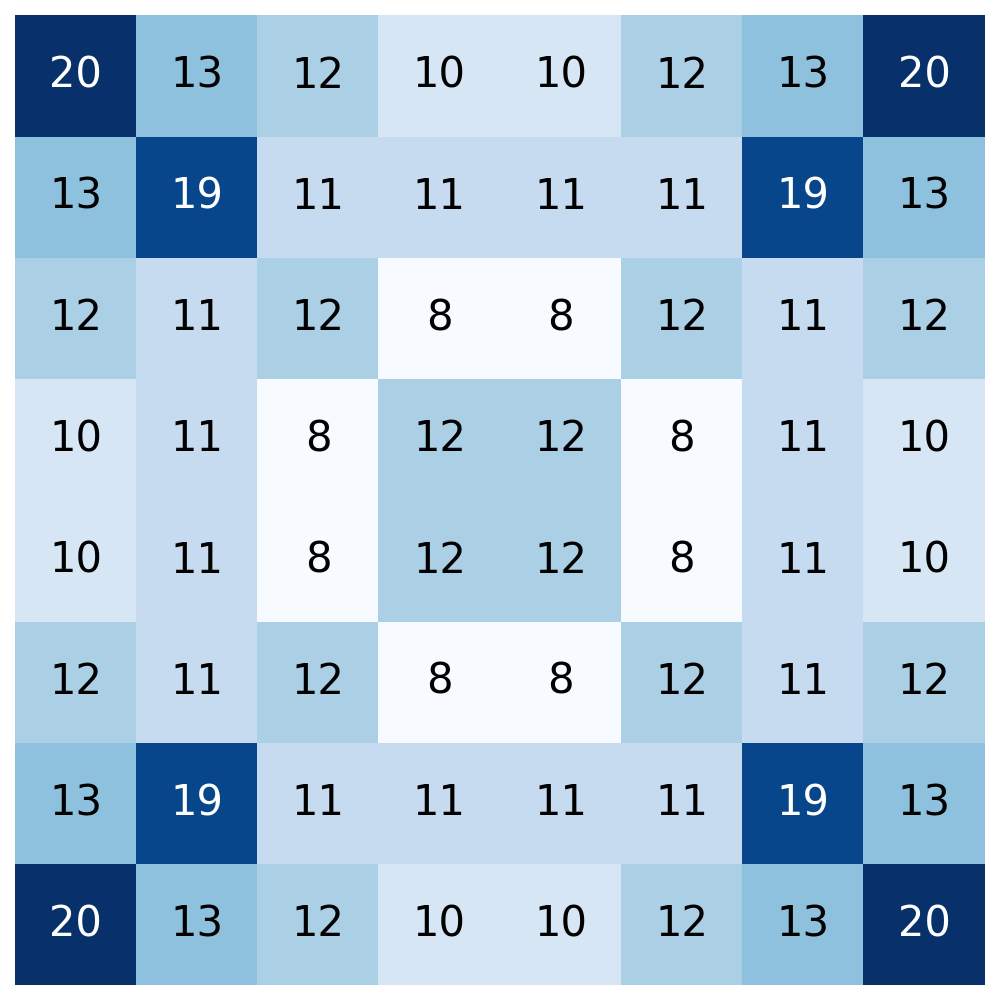
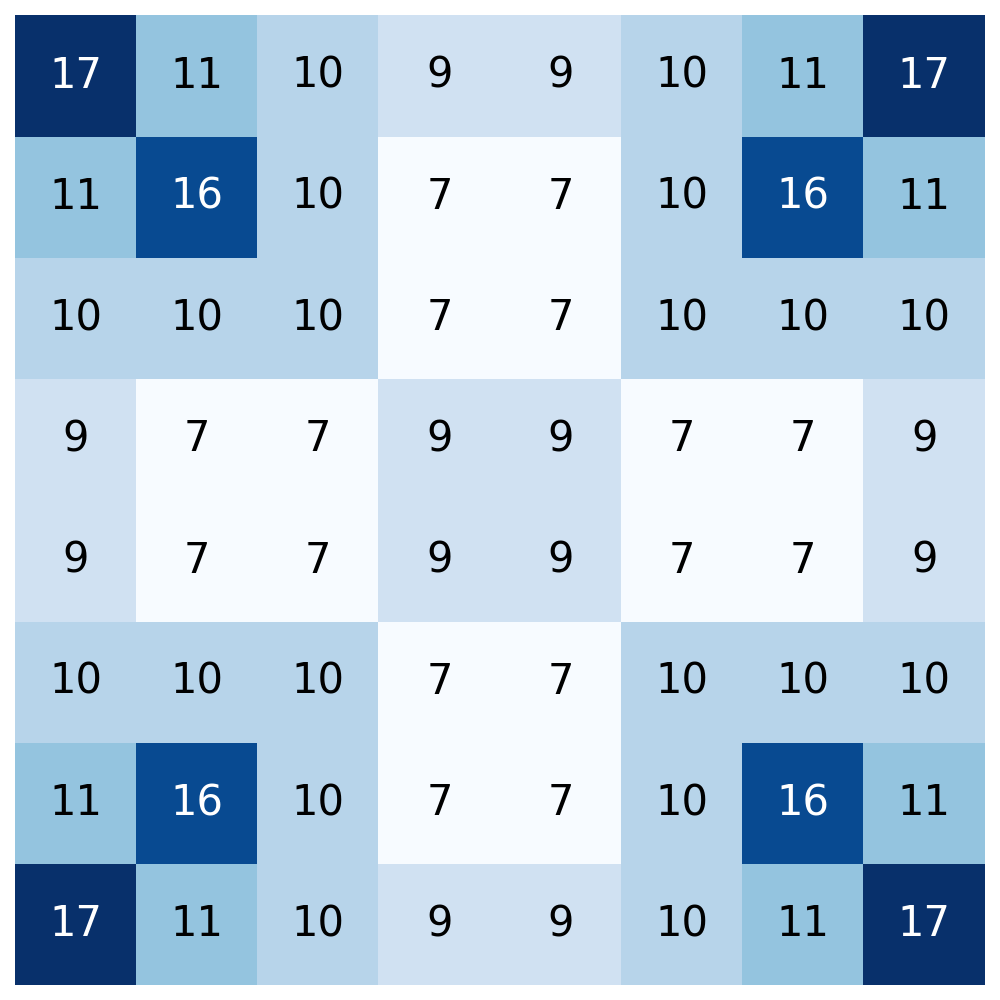
not very good eval #456

diff --git a/src/tools/evaluation/evaluation_definition_20250513_1_7_7.hpp b/src/tools/evaluation/evaluation_definition_20250513_1_7_7.hpp
@@ -1,0 +1,283 @@
+/*
+    Egaroucid Project
+
+    @file evaluation_definition.hpp
+        Evaluation Function Definition
+    @date 2021-2025
+    @author Takuto Yamana
+    @license GPL-3.0-or-later
+*/
+
+#pragma once
+#ifndef OPTIMIZER_INCLUDE
+    #include "./../../engine/board.hpp"
+#endif
+#include "evaluation_definition_common.hpp"
+
+#define EVAL_DEFINITION_NAME "20250513_1"
+#define EVAL_DEFINITION_DESCRIPTION "pattern (7.7) + n_discs_of_player"
+
+/*
+    @brief evaluation pattern definition
+*/
+// disc pattern
+#define ADJ_N_PATTERNS 16
+#define ADJ_N_SYMMETRY_PATTERNS 64
+#define ADJ_MAX_PATTERN_CELLS 10
+
+// additional features
+#define ADJ_N_ADDITIONAL_EVALS 1
+#define ADJ_MAX_STONE_NUM 65
+
+// overall
+#define ADJ_MAX_EVALUATE_IDX 59049
+#define ADJ_N_EVAL (16 + 1)
+#define ADJ_N_FEATURES (64 + 1)
+
+// phase
+#define ADJ_N_PHASES 60
+#define ADJ_N_PHASE_DISCS 1 // 60 / ADJ_N_PHASES
+
+//#define ADJ_SCORE_MAX HW2
+
+/*
+    @brief value definition
+
+    Raw score is STEP times larger than the real score.
+*/
+#define ADJ_STEP 64
+#define ADJ_STEP_2 32
+
+/*
+    @brief definition of patterns in evaluation function
+
+    pattern -> coordinate
+
+    @param n_cells              number of cells included in the pattern
+    @param cells                coordinates of each cell
+*/
+struct Adj_Feature_to_coord{
+    uint_fast8_t n_cells;
+    uint_fast8_t cells[ADJ_MAX_PATTERN_CELLS];
+};
+
+/*
+[17, 11, 10, 9, 9, 10, 11, 17]
+[11, 16, 10, 7, 7, 10, 16, 11]
+[10, 10, 10, 7, 7, 10, 10, 10]
+[9, 7, 7, 9, 9, 7, 7, 9]
+[9, 7, 7, 9, 9, 7, 7, 9]
+[10, 10, 10, 7, 7, 10, 10, 10]
+[11, 16, 10, 7, 7, 10, 16, 11]
+[17, 11, 10, 9, 9, 10, 11, 17]
+*/
+
+constexpr Adj_Feature_to_coord adj_feature_to_coord[ADJ_N_SYMMETRY_PATTERNS] = {
+    // 0 hv2 + 2corners
+    {10, {COORD_A1, COORD_A2, COORD_B2, COORD_C2, COORD_D2, COORD_E2, COORD_F2, COORD_G2, COORD_H2, COORD_H1}},
+    {10, {COORD_H1, COORD_G1, COORD_G2, COORD_G3, COORD_G4, COORD_G5, COORD_G6, COORD_G7, COORD_G8, COORD_H8}},
+    {10, {COORD_H8, COORD_H7, COORD_G7, COORD_F7, COORD_E7, COORD_D7, COORD_C7, COORD_B7, COORD_A7, COORD_A8}},
+    {10, {COORD_A8, COORD_B8, COORD_B7, COORD_B6, COORD_B5, COORD_B4, COORD_B3, COORD_B2, COORD_B1, COORD_A1}},
+    
+    // 1 hv3 + 2corners
+    {10, {COORD_B2, COORD_A3, COORD_B3, COORD_C3, COORD_D3, COORD_E3, COORD_F3, COORD_G3, COORD_H3, COORD_G2}},
+    {10, {COORD_G2, COORD_F1, COORD_F2, COORD_F3, COORD_F4, COORD_F5, COORD_F6, COORD_F7, COORD_F8, COORD_G7}},
+    {10, {COORD_G7, COORD_H6, COORD_G6, COORD_F6, COORD_E6, COORD_D6, COORD_C6, COORD_B6, COORD_A6, COORD_B7}},
+    {10, {COORD_B7, COORD_C8, COORD_C7, COORD_C6, COORD_C5, COORD_C4, COORD_C3, COORD_C2, COORD_C1, COORD_B2}},
+
+    // 2 hv4 + alpha
+    {10, {COORD_D3, COORD_A4, COORD_B4, COORD_C4, COORD_D4, COORD_E4, COORD_F4, COORD_G4, COORD_H4, COORD_E3}},
+    {10, {COORD_F4, COORD_E1, COORD_E2, COORD_E3, COORD_E4, COORD_E5, COORD_E6, COORD_E7, COORD_E8, COORD_F5}},
+    {10, {COORD_E6, COORD_H5, COORD_G5, COORD_F5, COORD_E5, COORD_D5, COORD_C5, COORD_B5, COORD_A5, COORD_D6}},
+    {10, {COORD_C5, COORD_D8, COORD_D7, COORD_D6, COORD_D5, COORD_D4, COORD_D3, COORD_D2, COORD_D1, COORD_C4}},
+
+    // 3 d5 + alpha
+    {10, {COORD_B2, COORD_C1, COORD_D1, COORD_E2, COORD_F3, COORD_G4, COORD_H5, COORD_H6, COORD_G7, COORD_G2}},
+    {10, {COORD_G2, COORD_H3, COORD_H4, COORD_G5, COORD_F6, COORD_E7, COORD_D8, COORD_C8, COORD_B7, COORD_G7}},
+    {10, {COORD_G7, COORD_F8, COORD_E8, COORD_D7, COORD_C6, COORD_B5, COORD_A4, COORD_A3, COORD_B2, COORD_B7}},
+    {10, {COORD_B7, COORD_A6, COORD_A5, COORD_B4, COORD_C3, COORD_D2, COORD_E1, COORD_F1, COORD_G2, COORD_B2}},
+    
+    // 4 d6 + alpha
+    {10, {COORD_B1, COORD_C1, COORD_D2, COORD_E3, COORD_F2, COORD_G3, COORD_F4, COORD_G5, COORD_H6, COORD_H7}},
+    {10, {COORD_H2, COORD_H3, COORD_G4, COORD_F5, COORD_G6, COORD_F7, COORD_E6, COORD_D7, COORD_C8, COORD_B8}},
+    {10, {COORD_G8, COORD_F8, COORD_E7, COORD_D6, COORD_C7, COORD_B6, COORD_C5, COORD_B4, COORD_A3, COORD_A2}},
+    {10, {COORD_A7, COORD_A6, COORD_B5, COORD_C4, COORD_B3, COORD_C2, COORD_D3, COORD_E2, COORD_F1, COORD_G1}},
+
+    // 5 d7 + alpha
+    {10, {COORD_A1, COORD_B1, COORD_C2, COORD_D3, COORD_E4, COORD_F5, COORD_G6, COORD_H7, COORD_H8, COORD_D5}},
+    {10, {COORD_H1, COORD_H2, COORD_G3, COORD_F4, COORD_E5, COORD_D6, COORD_C7, COORD_B8, COORD_A8, COORD_D4}},
+    {10, {COORD_H8, COORD_G8, COORD_F7, COORD_E6, COORD_D5, COORD_C4, COORD_B3, COORD_A2, COORD_A1, COORD_E4}},
+    {10, {COORD_A8, COORD_A7, COORD_B6, COORD_C5, COORD_D4, COORD_E3, COORD_F2, COORD_G1, COORD_H1, COORD_E5}},
+
+    // 6 d8 + 2C
+    {10, {COORD_A1, COORD_B2, COORD_C3, COORD_D4, COORD_E5, COORD_F6, COORD_G7, COORD_H8, COORD_A2, COORD_B1}},
+    {10, {COORD_H8, COORD_G7, COORD_F6, COORD_E5, COORD_D4, COORD_C3, COORD_B2, COORD_A1, COORD_H7, COORD_G8}},
+    {10, {COORD_H1, COORD_G2, COORD_F3, COORD_E4, COORD_D5, COORD_C6, COORD_B7, COORD_A8, COORD_H2, COORD_G1}},
+    {10, {COORD_A8, COORD_B7, COORD_C6, COORD_D5, COORD_E4, COORD_F3, COORD_G2, COORD_H1, COORD_A7, COORD_B8}},
+
+    // 7 corner9 + center
+    {10, {COORD_A1, COORD_B1, COORD_C1, COORD_A2, COORD_B2, COORD_C2, COORD_A3, COORD_B3, COORD_C3, COORD_D4}},
+    {10, {COORD_H1, COORD_H2, COORD_H3, COORD_G1, COORD_G2, COORD_G3, COORD_F1, COORD_F2, COORD_F3, COORD_E4}},
+    {10, {COORD_H8, COORD_G8, COORD_F8, COORD_H7, COORD_G7, COORD_F7, COORD_H6, COORD_G6, COORD_F6, COORD_E5}},
+    {10, {COORD_A8, COORD_A7, COORD_A6, COORD_B8, COORD_B7, COORD_B6, COORD_C8, COORD_C7, COORD_C6, COORD_D5}},
+    
+    // 8 edge + 2x
+    {10, {COORD_B2, COORD_A1, COORD_B1, COORD_C1, COORD_D1, COORD_E1, COORD_F1, COORD_G1, COORD_H1, COORD_G2}},
+    {10, {COORD_B2, COORD_A1, COORD_A2, COORD_A3, COORD_A4, COORD_A5, COORD_A6, COORD_A7, COORD_A8, COORD_B7}},
+    {10, {COORD_B7, COORD_A8, COORD_B8, COORD_C8, COORD_D8, COORD_E8, COORD_F8, COORD_G8, COORD_H8, COORD_G7}},
+    {10, {COORD_G2, COORD_H1, COORD_H2, COORD_H3, COORD_H4, COORD_H5, COORD_H6, COORD_H7, COORD_H8, COORD_G7}},
+
+    // 9 triangle
+    {10, {COORD_A1, COORD_B1, COORD_C1, COORD_D1, COORD_A2, COORD_B2, COORD_C2, COORD_A3, COORD_B3, COORD_A4}},
+    {10, {COORD_H1, COORD_G1, COORD_F1, COORD_E1, COORD_H2, COORD_G2, COORD_F2, COORD_H3, COORD_G3, COORD_H4}},
+    {10, {COORD_A8, COORD_B8, COORD_C8, COORD_D8, COORD_A7, COORD_B7, COORD_C7, COORD_A6, COORD_B6, COORD_A5}},
+    {10, {COORD_H8, COORD_G8, COORD_F8, COORD_E8, COORD_H7, COORD_G7, COORD_F7, COORD_H6, COORD_G6, COORD_H5}},
+
+    // 10 corner + block
+    {10, {COORD_A1, COORD_C1, COORD_D1, COORD_E1, COORD_F1, COORD_H1, COORD_C2, COORD_D2, COORD_E2, COORD_F2}},
+    {10, {COORD_A1, COORD_A3, COORD_A4, COORD_A5, COORD_A6, COORD_A8, COORD_B3, COORD_B4, COORD_B5, COORD_B6}},
+    {10, {COORD_A8, COORD_C8, COORD_D8, COORD_E8, COORD_F8, COORD_H8, COORD_C7, COORD_D7, COORD_E7, COORD_F7}},
+    {10, {COORD_H1, COORD_H3, COORD_H4, COORD_H5, COORD_H6, COORD_H8, COORD_G3, COORD_G4, COORD_G5, COORD_G6}},
+
+    // 11 cross
+    {10, {COORD_A1, COORD_B2, COORD_C3, COORD_D4, COORD_B1, COORD_C2, COORD_D3, COORD_A2, COORD_B3, COORD_C4}},
+    {10, {COORD_H1, COORD_G2, COORD_F3, COORD_E4, COORD_G1, COORD_F2, COORD_E3, COORD_H2, COORD_G3, COORD_F4}},
+    {10, {COORD_A8, COORD_B7, COORD_C6, COORD_D5, COORD_B8, COORD_C7, COORD_D6, COORD_A7, COORD_B6, COORD_C5}},
+    {10, {COORD_H8, COORD_G7, COORD_F6, COORD_E5, COORD_G8, COORD_F7, COORD_E6, COORD_H7, COORD_G6, COORD_F5}},
+
+    // 12 edge + y
+    {10, {COORD_C2, COORD_A1, COORD_B1, COORD_C1, COORD_D1, COORD_E1, COORD_F1, COORD_G1, COORD_H1, COORD_F2}},
+    {10, {COORD_B3, COORD_A1, COORD_A2, COORD_A3, COORD_A4, COORD_A5, COORD_A6, COORD_A7, COORD_A8, COORD_B6}},
+    {10, {COORD_C7, COORD_A8, COORD_B8, COORD_C8, COORD_D8, COORD_E8, COORD_F8, COORD_G8, COORD_H8, COORD_F7}},
+    {10, {COORD_G3, COORD_H1, COORD_H2, COORD_H3, COORD_H4, COORD_H5, COORD_H6, COORD_H7, COORD_H8, COORD_G6}},
+
+    // 13 narrow triangle
+    {10, {COORD_A1, COORD_B1, COORD_C1, COORD_D1, COORD_E1, COORD_A2, COORD_B2, COORD_A3, COORD_A4, COORD_A5}},
+    {10, {COORD_H1, COORD_G1, COORD_F1, COORD_E1, COORD_D1, COORD_H2, COORD_G2, COORD_H3, COORD_H4, COORD_H5}},
+    {10, {COORD_A8, COORD_B8, COORD_C8, COORD_D8, COORD_E8, COORD_A7, COORD_B7, COORD_A6, COORD_A5, COORD_A4}},
+    {10, {COORD_H8, COORD_G8, COORD_F8, COORD_E8, COORD_D8, COORD_H7, COORD_G7, COORD_H6, COORD_H5, COORD_H4}},
+
+    // 14 fish
+    {10, {COORD_A1, COORD_B1, COORD_A2, COORD_B2, COORD_C2, COORD_D2, COORD_B3, COORD_C3, COORD_B4, COORD_D4}},
+    {10, {COORD_H1, COORD_G1, COORD_H2, COORD_G2, COORD_F2, COORD_E2, COORD_G3, COORD_F3, COORD_G4, COORD_E4}},
+    {10, {COORD_A8, COORD_B8, COORD_A7, COORD_B7, COORD_C7, COORD_D7, COORD_B6, COORD_C6, COORD_B5, COORD_D5}},
+    {10, {COORD_H8, COORD_G8, COORD_H7, COORD_G7, COORD_F7, COORD_E7, COORD_G6, COORD_F6, COORD_G5, COORD_E5}},
+
+    // 15 anvil
+    {10, {COORD_F3, COORD_E3, COORD_E2, COORD_E1, COORD_F1, COORD_C1, COORD_D1, COORD_D2, COORD_D3, COORD_C3}},
+    {10, {COORD_C6, COORD_D6, COORD_D7, COORD_D8, COORD_C8, COORD_F8, COORD_E8, COORD_E7, COORD_E6, COORD_F6}},
+    {10, {COORD_C3, COORD_C4, COORD_B4, COORD_A4, COORD_A3, COORD_A6, COORD_A5, COORD_B5, COORD_C5, COORD_C6}},
+    {10, {COORD_F6, COORD_F5, COORD_G5, COORD_H5, COORD_H6, COORD_H3, COORD_H4, COORD_G4, COORD_F4, COORD_F3}}
+};
+
+constexpr int adj_pattern_n_cells[ADJ_N_PATTERNS] = {10, 10, 10, 10, 10, 10, 10, 10, 10, 10, 10, 10, 10, 10};
+
+constexpr int adj_rev_patterns[ADJ_N_PATTERNS][ADJ_MAX_PATTERN_CELLS] = {
+    {9, 8, 7, 6, 5, 4, 3, 2, 1, 0}, // 0 hv2 + alpha
+    {9, 8, 7, 6, 5, 4, 3, 2, 1, 0}, // 1 hv3 + alpha
+    {9, 8, 7, 6, 5, 4, 3, 2, 1, 0}, // 2 hv4 + alpha
+    {8, 7, 6, 5, 4, 3, 2, 1, 0, 9}, // 3 d5 + alpha
+    {9, 8, 7, 6, 5, 4, 3, 2, 1, 0}, // 4 d6 + alpha
+    {8, 7, 6, 5, 4, 3, 2, 1, 0, 9}, // 5 d7 + alpha
+    {0, 1, 2, 3, 4, 5, 6, 7, 9, 8}, // 6 d8 + 2C
+    {0, 3, 6, 1, 4, 7, 2, 5, 8, 9}, // 7 corner9 + alpha
+    {9, 8, 7, 6, 5, 4, 3, 2, 1, 0}, // 8 edge + 2x
+    {0, 4, 7, 9, 1, 5, 8, 2, 6, 3}, // 9 triangle
+    {5, 4, 3, 2, 1, 0, 9, 8, 7, 6}, // 10 corner + block
+    {0, 1, 2, 3, 7, 8, 9, 4, 5, 6}, // 11 cross
+    {9, 8, 7, 6, 5, 4, 3, 2, 1, 0}, // 12 edge + y
+    {0, 5, 7, 8, 9, 1, 6, 2, 3, 4}, // 13 narrow triangle
+    {0, 2, 1, 3, 6, 8, 4, 7, 5, 9}, // 14 fish
+    {9, 8, 7, 6, 5, 4, 3, 2, 1, 0}  // 15 anvil
+};
+
+constexpr int adj_eval_sizes[ADJ_N_EVAL] = {
+    P310, P310, P310, P310, 
+    P310, P310, P310, P310, 
+    P310, P310, P310, P310, 
+    P310, P310, 
+    ADJ_MAX_STONE_NUM
+};
+
+constexpr int adj_feature_to_eval_idx[ADJ_N_FEATURES] = {
+    0, 0, 0, 0, 
+    1, 1, 1, 1, 
+    2, 2, 2, 2, 
+    3, 3, 3, 3, 
+    4, 4, 4, 4, 
+    5, 5, 5, 5, 
+    6, 6, 6, 6, 
+    7, 7, 7, 7, 
+    8, 8, 8, 8, 
+    9, 9, 9, 9, 
+    10, 10, 10, 10, 
+    11, 11, 11, 11, 
+    12, 12, 12, 12, 
+    13, 13, 13, 13, 
+    14, 14, 14, 14, 
+    15, 15, 15, 15, 
+    16
+};
+
+int adj_pick_digit3(int num, int d, int n_digit){
+    num /= adj_pow3[n_digit - 1 - d];
+    return num % 3;
+}
+
+int adj_pick_digit2(int num, int d){
+    return 1 & (num >> d);
+}
+
+bool has_symmetry_feature(int feature) {
+    return adj_rev_patterns[feature][0] != -1;
+}
+
+uint16_t adj_calc_rev_idx(int feature, int idx){
+    uint16_t res = 0;
+    if (feature < ADJ_N_PATTERNS){
+        if (has_symmetry_feature(feature)) {
+            for (int i = 0; i < adj_pattern_n_cells[feature]; ++i){
+                res += adj_pick_digit3(idx, adj_rev_patterns[feature][i], adj_pattern_n_cells[feature]) * adj_pow3[adj_pattern_n_cells[feature] - 1 - i];
+            }
+        } else {
+            res = idx;
+        }
+    } else{
+        res = idx;
+    }
+    return res;
+}
+
+#ifndef OPTIMIZER_INCLUDE
+
+int adj_calc_num_feature(Board *board){
+    return pop_count_ull(board->player); // board->opponent is unnecessary because of the 60 phases
+}
+
+inline int adj_pick_pattern(const uint_fast8_t b_arr[], int pattern_idx){
+    int res = 0;
+    for (int i = 0; i < adj_feature_to_coord[pattern_idx].n_cells; ++i){
+        res *= 3;
+        res += b_arr[adj_feature_to_coord[pattern_idx].cells[i]];
+    }
+    return res;
+}
+
+void adj_calc_features(Board *board, uint16_t res[]){
+    uint_fast8_t b_arr[HW2];
+    board->translate_to_arr_player(b_arr);
+    int idx = 0;
+    for (int i = 0; i < ADJ_N_SYMMETRY_PATTERNS; ++i)
+        res[idx++] = adj_pick_pattern(b_arr, i);
+    res[idx++] = adj_calc_num_feature(board);
+}
+
+int calc_phase(Board *board, int16_t player){
+    return (pop_count_ull(board->player | board->opponent) - 4) / ADJ_N_PHASE_DISCS;
+}
+
+void evaluation_definition_init(){
+    mobility_init();
+}
+
+#endif
